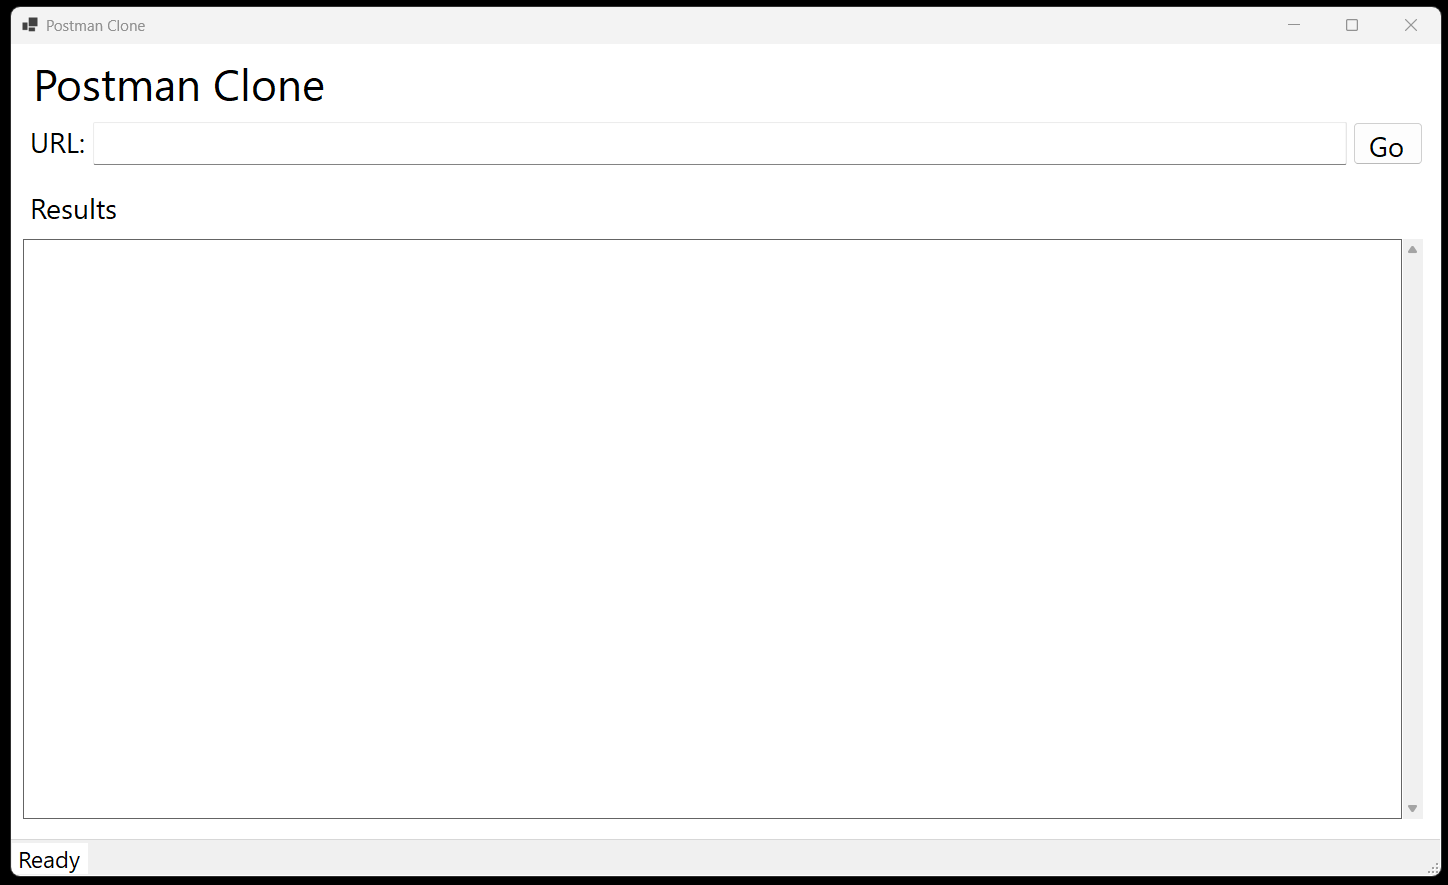
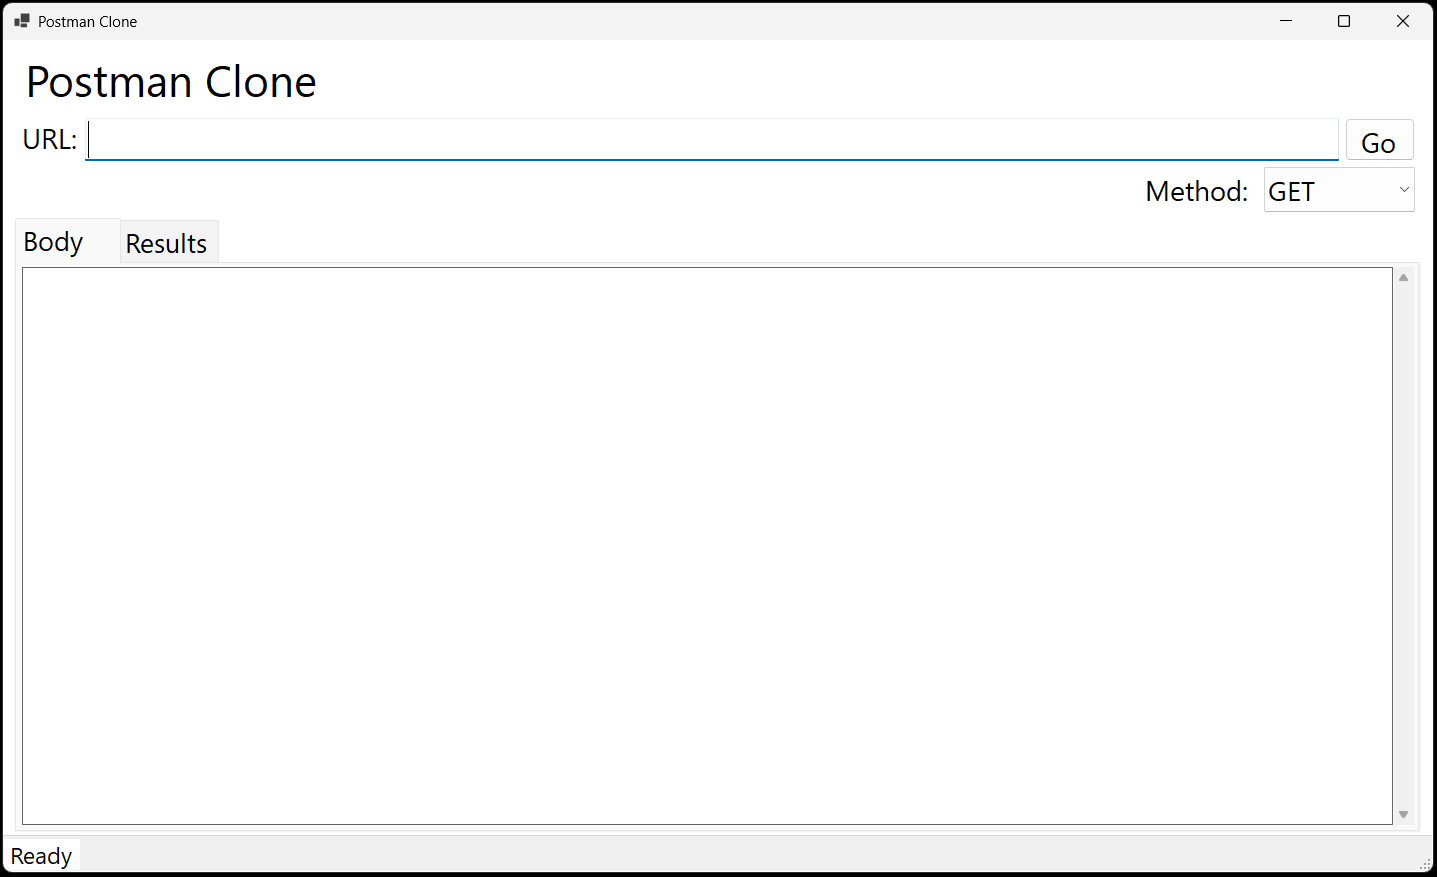
All the 5 http verbs implemented

Changed region(s): [[0.0, 0.0, 1.0, 1.0], [0.7961, 0.1847, 0.9186, 0.2463]]

diff --git a/PostmanCloneUI/Dashboard.Designer.cs b/PostmanCloneUI/Dashboard.Designer.cs
@@ -32,11 +32,19 @@
             lblApiLabel = new Label();
             tbUrl = new TextBox();
             btCallApi = new Button();
-            tbResults = new TextBox();
             statusStrip = new StatusStrip();
             systemStatus = new ToolStripStatusLabel();
-            lblResults = new Label();
+            cbHttpMethod = new ComboBox();
+            lblMethod = new Label();
+            tcCallData = new TabControl();
+            tabBody = new TabPage();
+            tbBody = new TextBox();
+            tabResults = new TabPage();
+            tbResults = new TextBox();
             statusStrip.SuspendLayout();
+            tcCallData.SuspendLayout();
+            tabBody.SuspendLayout();
+            tabResults.SuspendLayout();
             SuspendLayout();
             // 
             // lblFormHeader
@@ -75,18 +83,6 @@
             btCallApi.UseVisualStyleBackColor = true;
             btCallApi.Click += btCallApi_Click;
             // 
-            // tbResults
-            // 
-            tbResults.BackColor = Color.White;
-            tbResults.BorderStyle = BorderStyle.FixedSingle;
-            tbResults.Location = new Point(12, 195);
-            tbResults.Multiline = true;
-            tbResults.Name = "tbResults";
-            tbResults.ReadOnly = true;
-            tbResults.ScrollBars = ScrollBars.Both;
-            tbResults.Size = new Size(1400, 580);
-            tbResults.TabIndex = 4;
-            // 
             // statusStrip
             // 
             statusStrip.ImageScalingSize = new Size(20, 20);
@@ -104,14 +100,81 @@
             systemStatus.Size = new Size(76, 31);
             systemStatus.Text = "Ready";
             // 
-            // lblResults
+            // cbHttpMethod
             // 
-            lblResults.AutoSize = true;
-            lblResults.Location = new Point(12, 144);
-            lblResults.Name = "lblResults";
-            lblResults.Size = new Size(104, 38);
-            lblResults.TabIndex = 6;
-            lblResults.Text = "Results";
+            cbHttpMethod.DropDownStyle = ComboBoxStyle.DropDownList;
+            cbHttpMethod.FormattingEnabled = true;
+            cbHttpMethod.Items.AddRange(new object[] { "GET", "POST", "PUT", "PATCH", "DELETE" });
+            cbHttpMethod.Location = new Point(1261, 127);
+            cbHttpMethod.Name = "cbHttpMethod";
+            cbHttpMethod.Size = new Size(151, 45);
+            cbHttpMethod.TabIndex = 7;
+            // 
+            // lblMethod
+            // 
+            lblMethod.AutoSize = true;
+            lblMethod.Location = new Point(1135, 130);
+            lblMethod.Name = "lblMethod";
+            lblMethod.Size = new Size(120, 38);
+            lblMethod.TabIndex = 8;
+            lblMethod.Text = "Method:";
+            // 
+            // tcCallData
+            // 
+            tcCallData.Controls.Add(tabBody);
+            tcCallData.Controls.Add(tabResults);
+            tcCallData.Location = new Point(12, 178);
+            tcCallData.Name = "tcCallData";
+            tcCallData.SelectedIndex = 0;
+            tcCallData.Size = new Size(1406, 614);
+            tcCallData.TabIndex = 9;
+            // 
+            // tabBody
+            // 
+            tabBody.Controls.Add(tbBody);
+            tabBody.Location = new Point(4, 46);
+            tabBody.Name = "tabBody";
+            tabBody.Padding = new Padding(3);
+            tabBody.Size = new Size(1398, 564);
+            tabBody.TabIndex = 0;
+            tabBody.Text = "Body";
+            tabBody.UseVisualStyleBackColor = true;
+            // 
+            // tbBody
+            // 
+            tbBody.BackColor = Color.White;
+            tbBody.BorderStyle = BorderStyle.FixedSingle;
+            tbBody.Dock = DockStyle.Fill;
+            tbBody.Location = new Point(3, 3);
+            tbBody.Multiline = true;
+            tbBody.Name = "tbBody";
+            tbBody.ScrollBars = ScrollBars.Both;
+            tbBody.Size = new Size(1392, 558);
+            tbBody.TabIndex = 7;
+            // 
+            // tabResults
+            // 
+            tabResults.Controls.Add(tbResults);
+            tabResults.Location = new Point(4, 29);
+            tabResults.Name = "tabResults";
+            tabResults.Padding = new Padding(3);
+            tabResults.Size = new Size(1398, 581);
+            tabResults.TabIndex = 1;
+            tabResults.Text = "Results";
+            tabResults.UseVisualStyleBackColor = true;
+            // 
+            // tbResults
+            // 
+            tbResults.BackColor = Color.White;
+            tbResults.BorderStyle = BorderStyle.FixedSingle;
+            tbResults.Dock = DockStyle.Fill;
+            tbResults.Location = new Point(3, 3);
+            tbResults.Multiline = true;
+            tbResults.Name = "tbResults";
+            tbResults.ReadOnly = true;
+            tbResults.ScrollBars = ScrollBars.Both;
+            tbResults.Size = new Size(1392, 575);
+            tbResults.TabIndex = 5;
             // 
             // Dashboard
             // 
@@ -119,9 +182,10 @@
             AutoScaleMode = AutoScaleMode.Font;
             BackColor = Color.White;
             ClientSize = new Size(1430, 832);
-            Controls.Add(lblResults);
+            Controls.Add(tcCallData);
+            Controls.Add(lblMethod);
+            Controls.Add(cbHttpMethod);
             Controls.Add(statusStrip);
-            Controls.Add(tbResults);
             Controls.Add(btCallApi);
             Controls.Add(tbUrl);
             Controls.Add(lblApiLabel);
@@ -132,6 +196,11 @@
             Text = "Postman Clone";
             statusStrip.ResumeLayout(false);
             statusStrip.PerformLayout();
+            tcCallData.ResumeLayout(false);
+            tabBody.ResumeLayout(false);
+            tabBody.PerformLayout();
+            tabResults.ResumeLayout(false);
+            tabResults.PerformLayout();
             ResumeLayout(false);
             PerformLayout();
         }
@@ -142,9 +211,14 @@
         private Label lblApiLabel;
         private TextBox tbUrl;
         private Button btCallApi;
-        private TextBox tbResults;
         private StatusStrip statusStrip;
-        private Label lblResults;
         private ToolStripStatusLabel systemStatus;
+        private ComboBox cbHttpMethod;
+        private Label lblMethod;
+        private TabControl tcCallData;
+        private TabPage tabBody;
+        private TabPage tabResults;
+        private TextBox tbResults;
+        private TextBox tbBody;
     }
 }

diff --git a/PostmanCloneLibrary/ApiAccess.cs b/PostmanCloneLibrary/ApiAccess.cs
@@ -1,4 +1,5 @@
-using System.Text.Json;
+using System.Text;
+using System.Text.Json;
 
 namespace PostmanCloneLibrary;
 
@@ -6,9 +7,36 @@ public class ApiAccess : IApiAccess
 {
     private readonly HttpClient _client = new();
 
-    public async Task<string> CallApiAsync(string url, bool formatOutput = true, HttpAction action = HttpAction.GET)
+    public async Task<string> CallApiAsync(string url, string content, HttpAction action = HttpAction.GET, bool formatOutput = true)
     {
-        var response = await _client.GetAsync(url);
+        StringContent stringContent = new StringContent(content, Encoding.UTF8, "application/json");
+        return await CallApiAsync(url, stringContent, action, formatOutput);
+    }
+
+    public async Task<string> CallApiAsync(string url, HttpContent? content, HttpAction action = HttpAction.GET, bool formatOutput = true)
+    {
+        HttpResponseMessage? response;
+
+        switch(action)
+        {
+            case HttpAction.GET:
+                response = await _client.GetAsync(url);
+                break;
+            case HttpAction.POST:
+                response = await _client.PostAsync(url,content);
+                break;
+            case HttpAction.PUT:
+                response = await _client.PutAsync(url, content);
+                break;
+            case HttpAction.PATCH:
+                response = await _client.PatchAsync(url, content);
+                break;
+            case HttpAction.DELETE:
+                response = await _client.DeleteAsync(url);
+                break;
+            default:
+                throw new ArgumentOutOfRangeException(nameof(action), action, null);
+        }
 
         if (response.IsSuccessStatusCode)
         {

diff --git a/PostmanCloneUI/Dashboard.cs b/PostmanCloneUI/Dashboard.cs
@@ -7,6 +7,7 @@ public partial class Dashboard : Form
     public Dashboard()
     {
         InitializeComponent();
+        cbHttpMethod.SelectedItem = "GET";
     }
 
     private async void btCallApi_Click(object sender, EventArgs e)
@@ -20,9 +21,19 @@ public partial class Dashboard : Form
             return;
         }
 
+        HttpAction action;
+
+        if(Enum.TryParse(cbHttpMethod.SelectedItem!.ToString(), out action) == false)
+        {
+            systemStatus.Text = "Invalid HTTP verb";
+            return;
+        }
+
         try
         {
-            tbResults.Text = await api.CallApiAsync(tbUrl.Text);
+            tbResults.Text = await api.CallApiAsync(tbUrl.Text, tbBody.Text, action);
+            tcCallData.SelectedTab = tabResults;
+            tabResults.Focus();
             systemStatus.Text = "Ready";
 
         }

diff --git a/PostmanCloneLibrary/IApiAccess.cs b/PostmanCloneLibrary/IApiAccess.cs
@@ -1,8 +1,9 @@
 namespace PostmanCloneLibrary
 {
     public interface IApiAccess
-    {
-        Task<string> CallApiAsync(string url, bool formatOutput = true, HttpAction action = HttpAction.GET);
+    {        
+        Task<string> CallApiAsync(string url, string content, HttpAction action = HttpAction.GET, bool formatOutput = true);
+        Task<string> CallApiAsync(string url, HttpContent? content, HttpAction action = HttpAction.GET, bool formatOutput = true);
         bool IsValidUrl(string url);
     }
 }

diff --git a/PostmanCloneLibrary/Enums.cs b/PostmanCloneLibrary/Enums.cs
@@ -1,2 +1,2 @@
 namespace PostmanCloneLibrary;
-public enum HttpAction {GET, POST, PUT, UPDATE, DELETE};
+public enum HttpAction {GET, POST, PUT, PATCH, DELETE};
